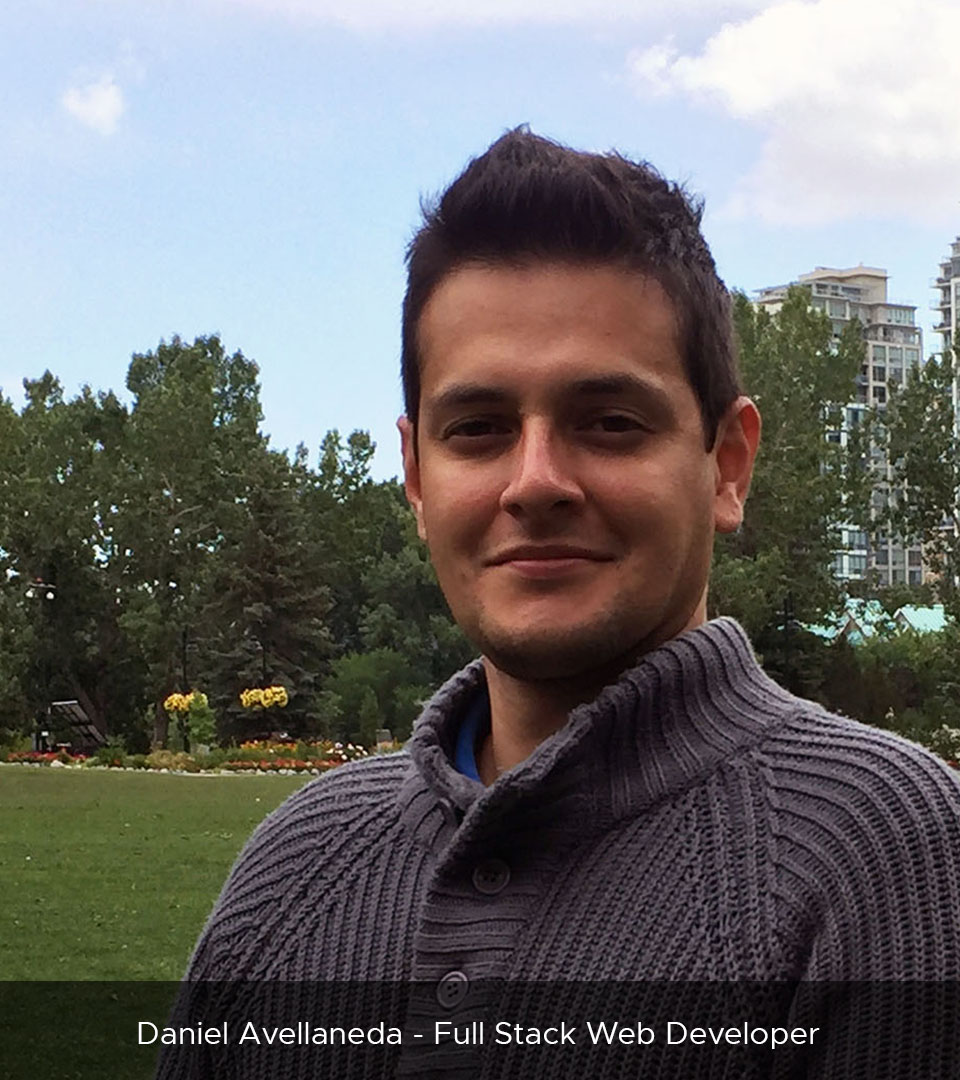
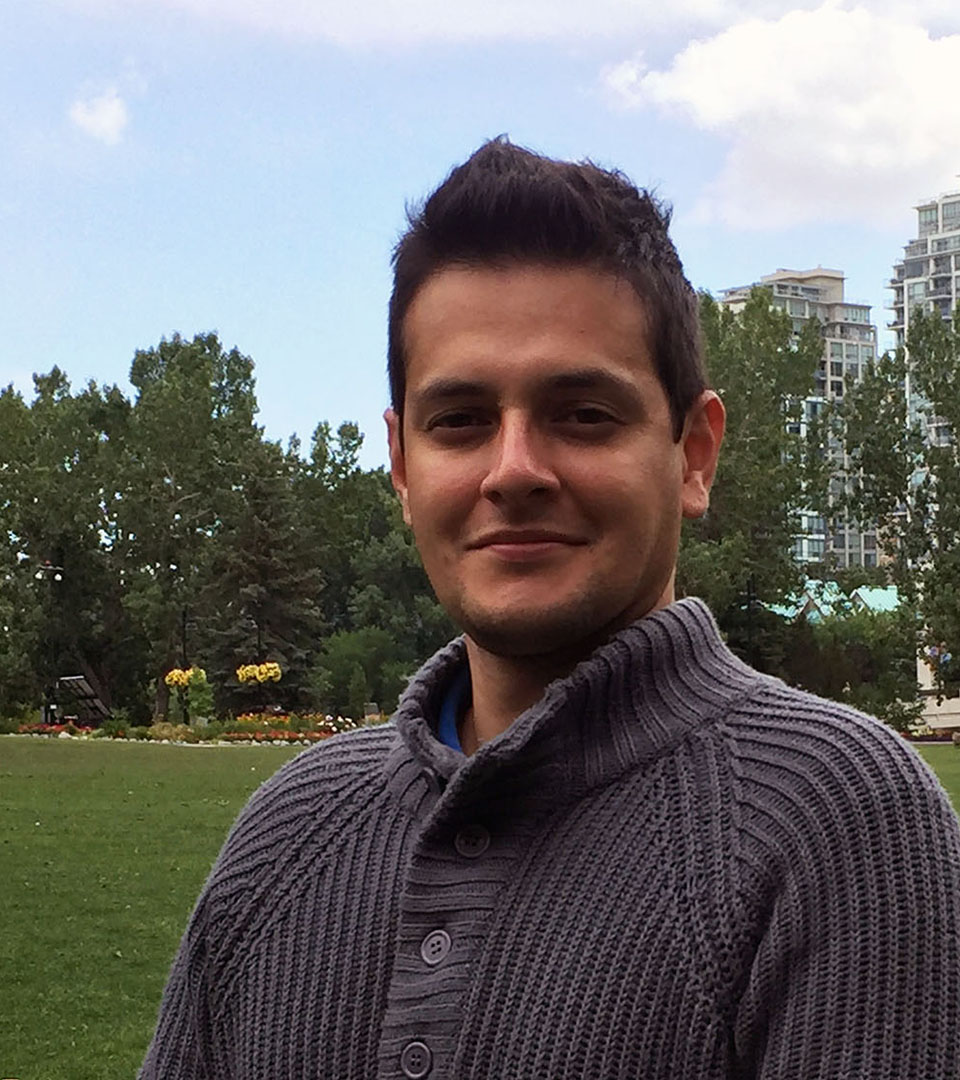
photo fix overlay

diff --git a/src/components/Welcome.vue b/src/components/Welcome.vue
@@ -1,15 +1,27 @@
 <template>
   <section id="welcome" class="hide-overflow">
     <v-layout wrap>
-      <v-flex xs12 md6>
+      <v-flex xs12 md6 class="overlay-container">
         <v-img :src="require('@/assets/daniel.jpg')" height="100%" />
+        <div
+          class="overlay text-xs-center"
+          v-resize-text="{
+            ratio: 2.5,
+            minFontSize: '8px',
+            maxFontSize: '24px'
+          }"
+        >
+          <div class="overlay-text">
+            Daniel Avellaneda - {{ $t('welcome.FULL_STACK_WEB_DEVELOPER') }}
+          </div>
+        </div>
       </v-flex>
       <v-flex xs12 md6>
         <v-layout align-center justify-center fill-height wrap>
           <LocaleChanger />
           <v-flex xs12 pl-5 pr-5 pt-0 pb-5>
             <Logo class="mt-2" />
-            <Subheading>/* DANIEL AVELLANEDA */</Subheading>
+            <Subheading>DANIEL AVELLANEDA</Subheading>
             <Heading v-html="$t('welcome.TITLE')" />
             <ContentText v-html="$t('welcome.PARAGRAPH_1')" />
           </v-flex>
@@ -21,27 +33,31 @@
 
 <script>
 import LocaleChanger from '@/components/core/LocaleChanger.vue'
+import ResizeText from 'vue-resize-text'
 
 export default {
   name: 'Welcome',
-  components: { LocaleChanger }
+  components: { LocaleChanger },
+  directives: {
+    ResizeText
+  }
 }
 </script>
 
 <style>
-.myPicture {
-  font-family: 'metropolis-regular', sans-serif;
-  font-size: 1.5em;
-  background: url('../assets/daniel.jpg');
-  height: 100%;
+.overlay-container {
   position: relative;
 }
+.overlay-text {
+  font-family: 'metropolis-regular', sans-serif;
+  color: #fff !important;
+}
 .overlay {
+  padding: 5px;
+  width: 100%;
   position: absolute;
-  display: block;
-  background: #000;
-  background: rgba(0, 0, 0, 0.6);
-  color: #fff;
-  padding: 20px 20px;
+  bottom: 0;
+  background-color: #000;
+  opacity: 0.6;
 }
 </style>

diff --git a/src/App.vue b/src/App.vue
@@ -14,6 +14,7 @@
 import Footer from '@/components/core/Footer.vue'
 import Toolbar from '@/components/core/Toolbar.vue'
 import Content from '@/components/core/Content.vue'
+import { page } from 'vue-analytics'
 
 export default {
   name: 'App',
@@ -63,7 +64,7 @@ export default {
   },
   methods: {
     track() {
-      this.$ga.page('/')
+      page('/')
     }
   },
   created() {

diff --git a/src/components/common/Subheading.vue b/src/components/common/Subheading.vue
@@ -23,7 +23,6 @@ export default {
 
 <style>
 .subheading {
-  color: #cc147f !important;
   font-family: 'metropolis-regular', sans-serif !important;
   font-weight: bold !important;
 }
